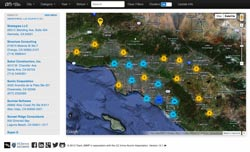
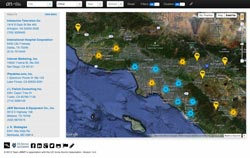
Update AntNet screens.

diff --git a/portfolio.html b/portfolio.html
@@ -3,7 +3,7 @@ layout: default
 title: Portfolio
 description: Portfolio of Melvin Chien
 permalink: /portfolio/
-updated: 2013-03-06
+updated: 2013-03-12
 ---
 
 <ul class="nav nav-pills">
@@ -32,31 +32,32 @@ updated: 2013-03-06
         <li><i class="icon-angle-right"></i> Displays all UCI alumni owned businesses</li>
         <li><i class="icon-angle-right"></i> Supports businesses without a physical address</li>
         <li><i class="icon-angle-right"></i> Filter by city, category, class year, or school</li>
-        <li><i class="icon-angle-right"></i> Search by any filter in addition to business name, alumni name, state, country, or zip code</li>
-        <li><i class="icon-angle-right"></i> Auto populating menus</li>
+        <li><i class="icon-angle-right"></i> Search in a variety of fields including business name, alumni name, address, or category</li>
+        <li><i class="icon-angle-right"></i> Auto populating and searchable menus</li>
         <li><i class="icon-angle-right"></i> Hide-able results list</li>
         <li><i class="icon-angle-right"></i> Auto focusing map on search, with <a class="tooltip-hover" title="Prevents pins from appearing on the edge of the map.">buffer zones</a> around pins</li>
         <li><i class="icon-angle-right"></i> Marker clustering</li>
         <li><i class="icon-angle-right"></i> Geocoding and caching addresses</li>
         <li><i class="icon-angle-right"></i> Custom admin panel for UCIAA staff</li>
+        <li><i class="icon-angle-right"></i> Compatible with mobile devices</li>
       </ul>
     </div>
   </div>
   <div class="row-fluid gallery">
     <a class="span2" title="The default view of the Anteater Network." rel="antnet" href="/images/antnet_main.jpg">
-      <img class="lazy" src="/images/pixel.gif" data-original="/images/antnet_main_small.jpg" alt="Main view" />
+      <img class="lazy" src="/images/pixel.gif" data-original="/images/antnet_main_small.jpg" alt="Anteater Network" />
     </a>
-    <a class="span2" title="Hide the results list for a simpler and more relaxed view." rel="antnet" href="/images/antnet_noresults.jpg">
-      <img class="lazy" src="/images/pixel.gif" data-original="/images/antnet_noresults_small.jpg" alt="Results list hidden" />
+    <a class="span2" title="Hide the results list for a simpler and more relaxed view." rel="antnet" href="/images/antnet_map.jpg">
+      <img class="lazy" src="/images/pixel.gif" data-original="/images/antnet_map_small.jpg" alt="Full map view" />
     </a>
     <a class="span2" title="Too many pins crowding the map? Turn on the clusters!" rel="antnet" href="/images/antnet_clusters.jpg">
       <img class="lazy" src="/images/pixel.gif" data-original="/images/antnet_clusters_small.jpg" alt="Marker clustering" />
     </a>
-    <a class="span2" title="Discover businesses using the various filters or search." rel="antnet" href="/images/antnet_category.jpg">
-      <img class="lazy" src="/images/pixel.gif" data-original="/images/antnet_category_small.jpg" alt="Category filter" />
+    <a class="span2" title="Discover businesses using the various searchable filters." rel="antnet" href="/images/antnet_filter.jpg">
+      <img class="lazy" src="/images/pixel.gif" data-original="/images/antnet_filter_small.jpg" alt="Searchable filters" />
     </a>    
-    <a class="span2" title="Look through the results list to find a business's details and get driving directions." rel="antnet" href="/images/antnet_infowindow.jpg">
-      <img class="lazy" src="/images/pixel.gif" data-original="/images/antnet_infowindow_small.jpg" alt="Info window" />
+    <a class="span2" title="Find a business' details and get driving directions directly." rel="antnet" href="/images/antnet_info.jpg">
+      <img class="lazy" src="/images/pixel.gif" data-original="/images/antnet_info_small.jpg" alt="Info window" />
     </a>
   </div>
 </section>

diff --git a/about.html b/about.html
@@ -4,7 +4,7 @@ title: About
 description: About Melvin Chien
 subhead: Melvin Chien
 permalink: /about/
-updated: 2013-02-25
+updated: 2013-03-12
 ---
 
 <div class="row-fluid">
@@ -37,7 +37,7 @@ updated: 2013-02-25
     <div class="span6">
       <h2>Introduction</h2>
       <p>I am interested in the union of human-computer interaction and web development. I specialize in improving the user experience of online systems and applications.</p>
-      <p>I am experienced in user studies, mockups and prototypes, agile development, graphic design and branding, and customer support.</p>
+      <p>I am experienced in user studies, mockups and prototypes, agile development, graphic design and branding, web and software development, and customer support.</p>
       <br />
       <h3>Languages</h3>
       <p>I am fluent in English, Cantonese, Mandarin, and Shanghainese and have a limited working knowledge of Japanese.</p>
